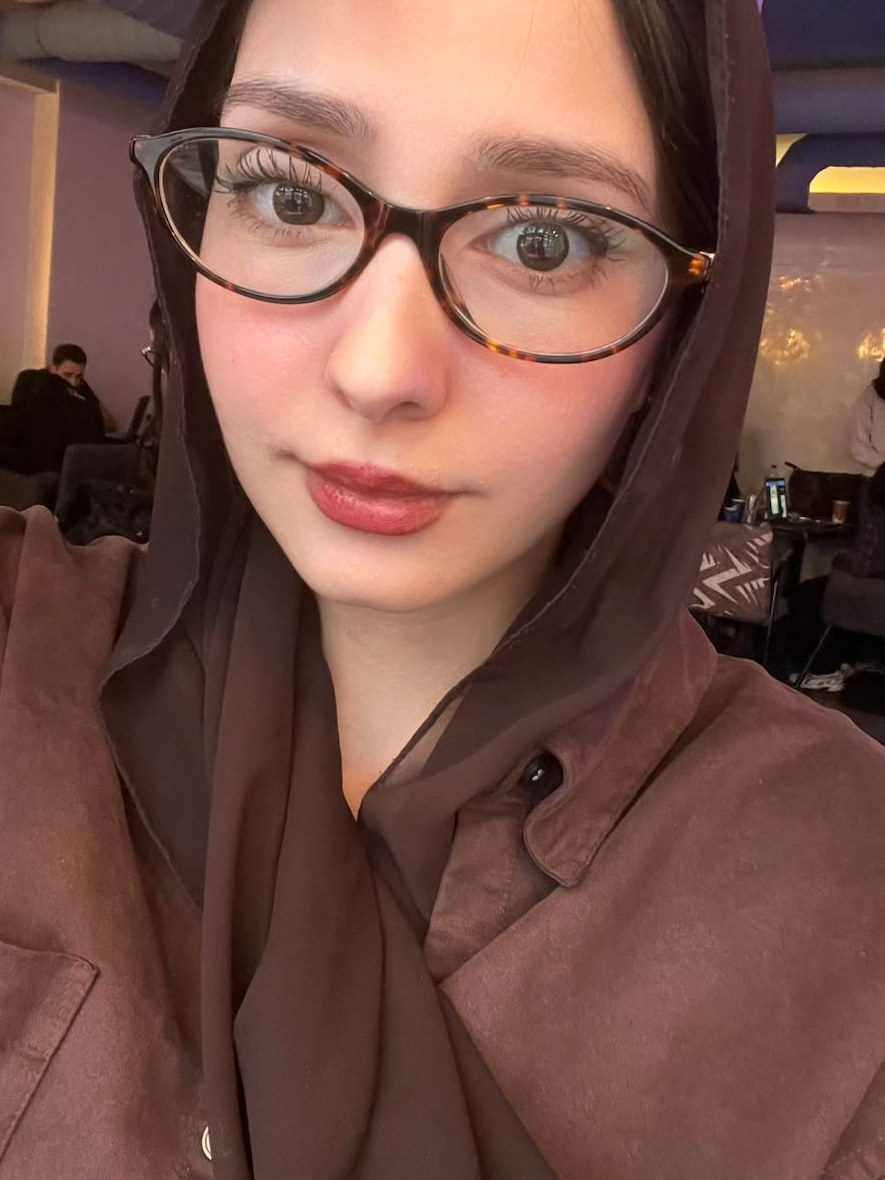
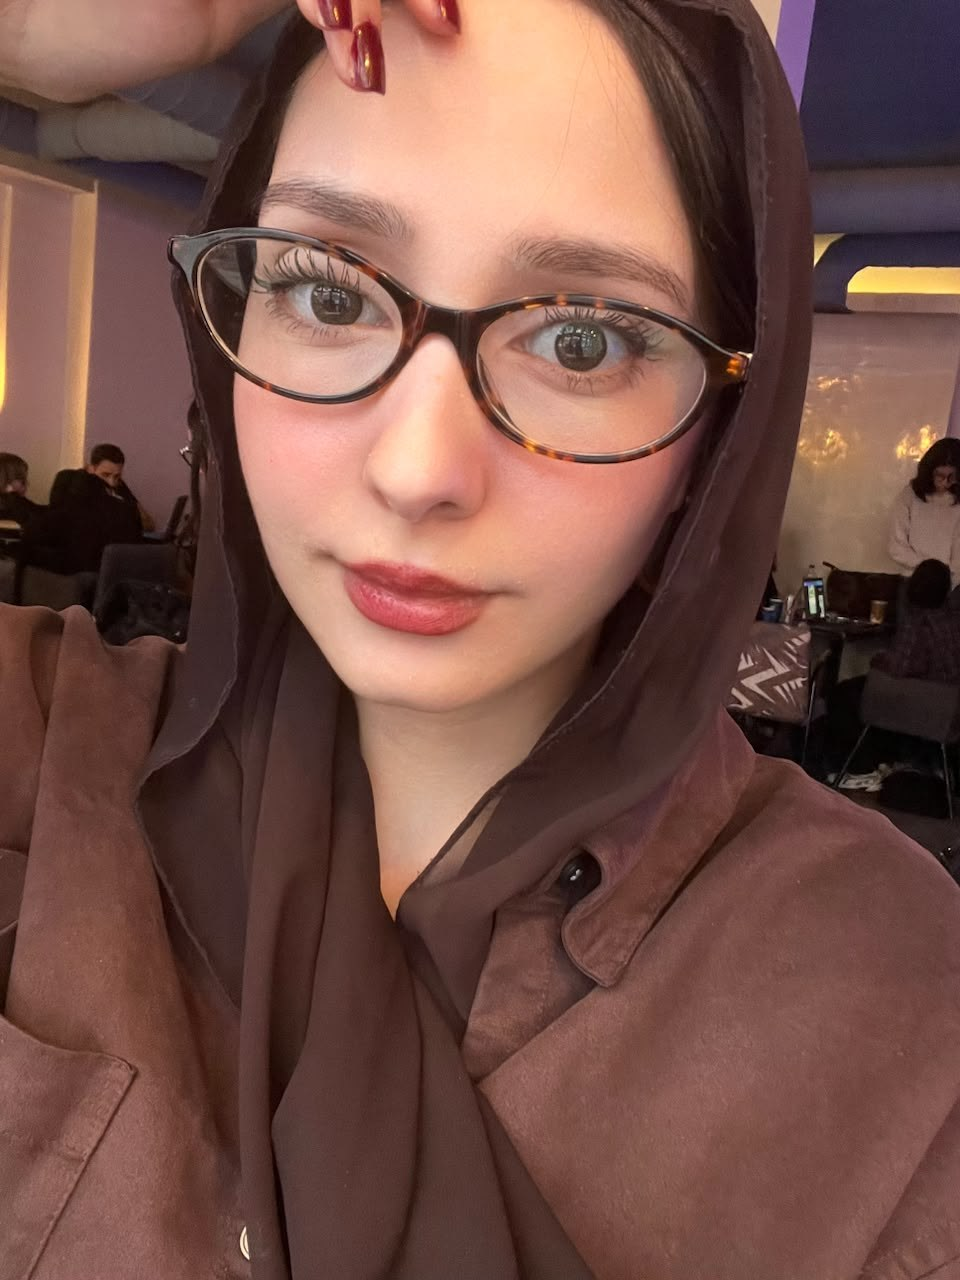
Essai : photo entière, non recadrée, plus petite
Claude-Session: https://claude.ai/code/session_011CgDbF6iUxE87xj2Evkeai

diff --git a/index.html b/index.html
@@ -60,8 +60,8 @@ nav a:hover{color:var(--rose-ink)}
 /* hero */
 .hero{background:var(--rose);padding-top:clamp(28px,4vw,56px)}
 .hero .wrap{display:grid;grid-template-columns:minmax(0,5fr) minmax(0,7fr);gap:clamp(24px,4vw,64px);align-items:end}
-.portrait{margin:0;position:relative;width:100%;max-width:360px;justify-self:center;align-self:center}
-.portrait img{display:block;width:100%;height:auto;aspect-ratio:3/4;object-fit:cover;border-radius:220px 220px 18px 18px}
+.portrait{margin:0;position:relative;width:100%;max-width:320px;justify-self:center;align-self:center}
+.portrait img{display:block;width:100%;height:auto;border-radius:18px}
 .portrait figcaption{font:500 14px "Familjen Grotesk",sans-serif;color:var(--soft);margin-top:12px}
 .intro h1{font-size:clamp(52px,8vw,104px);letter-spacing:-.035em;font-weight:700;line-height:.95}
 .role{font:500 clamp(19px,2vw,23px)/1.35 "Familjen Grotesk",sans-serif;margin:16px 0 26px;max-width:34ch}
@@ -206,7 +206,7 @@ footer{padding:22px max(5vw,16px);font:14px "Familjen Grotesk",sans-serif;color:
 <section class="band hero" aria-label="Présentation">
  <div class="wrap">
   <figure class="portrait">
-   <img src="eya-weslati.jpg?v=9" fetchpriority="high" decoding="async" alt="Portrait d'Eya Weslati" width="885" height="1180">
+   <img src="eya-weslati.jpg?v=10" fetchpriority="high" decoding="async" alt="Portrait d'Eya Weslati" width="960" height="1280">
    <figcaption>Korba, Nabeul · Tunisie</figcaption>
   </figure>
   <div class="intro">
